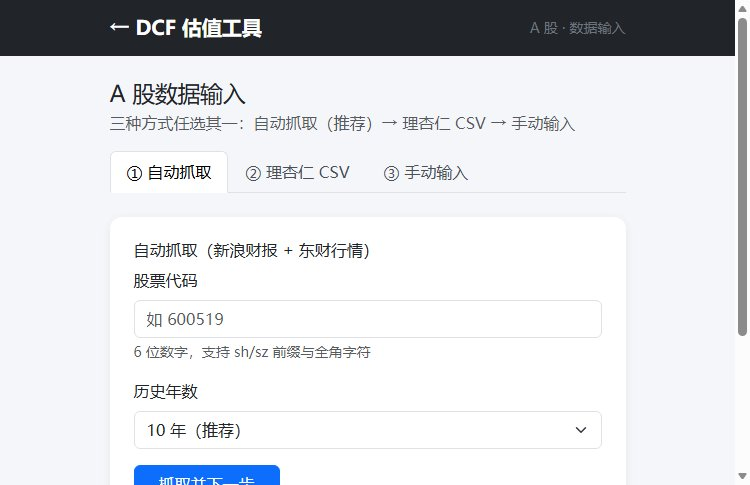
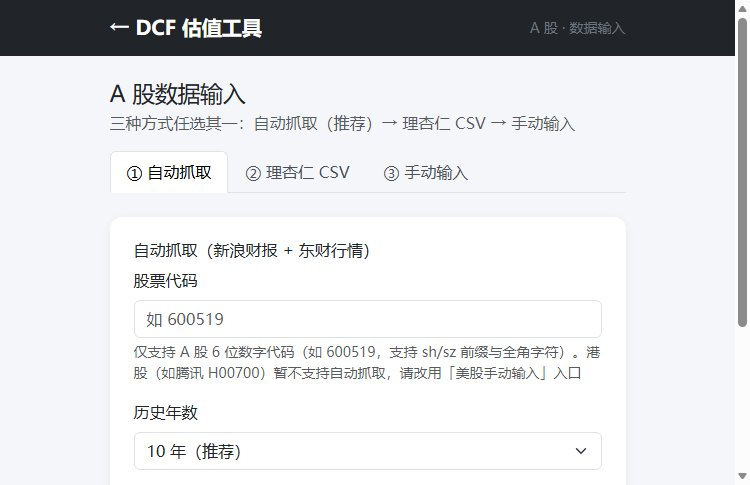
build: bump v1.1.4 -> v1.1.5（港股输入友好提示后的正式发版，更新截图）

Changed region(s): [[0.1533, 0.7113, 0.7973, 1.0], [0.9813, 0.6495, 1.0, 0.7113], [0.7667, 0.866, 0.7973, 0.8969]]

diff --git a/README.md b/README.md
@@ -46,7 +46,7 @@ cd DCF-Valuation-Tool
 
 浏览器打开 <http://localhost:8501> 即可使用（端口可在 `src/main/resources/application.yml` 修改；
 若 8501 被占用，可用 `run.bat jar 8502` / `./run.sh jar 8502` 一键换端口，
-或直接 `java -jar target/dcf-valuation-tool-1.1.4.jar --server.port=8502`）。
+或直接 `java -jar target/dcf-valuation-tool-1.1.5.jar --server.port=8502`）。
 
 **代理（可选）**：FRED 等境外数据源需要代理时才需设置环境变量，**别人使用无需任何代理配置**（不加代理时自动获取失败会提示手动输入，不影响其他功能）：
 
@@ -130,7 +130,7 @@ DCF-Valuation-Tool/
 
 ## 分支与 Roadmap
 
-- `main`：Java 版（当前版本 v1.1.4）
+- `main`：Java 版（当前版本 v1.1.5）
 - `python-prototype`：Python/Streamlit 原型（⚠ WIP：目前只提交了核心计算模块 `dcf/`，UI 层 `app.py` 尚未完成，请勿直接运行该分支；后续完成后再合并为正式版）
 
 ## Docker 部署（免装 JDK）
@@ -149,7 +149,7 @@ docker run -p 8501:8501 -v "$(pwd)/data:/app/data" dcf-valuation-tool
 
 - **免费 PaaS（最省事）**：把本仓库部署到 Railway / Render / Fly.io（仓库已内置 Dockerfile），
   构建后即可获得公网地址，适合演示与试用
-- **云服务器**：在服务器（需 JDK 21）上运行 `java -jar target/dcf-valuation-tool-1.1.4.jar`，
+- **云服务器**：在服务器（需 JDK 21）上运行 `java -jar target/dcf-valuation-tool-1.1.5.jar`，
   再用 Nginx / Caddy 反向代理并绑定域名（HTTPS）
 - **内网穿透**：ngrok / frp 适合临时演示，不建议长期公开使用
 
@@ -158,4 +158,5 @@ docker run -p 8501:8501 -v "$(pwd)/data:/app/data" dcf-valuation-tool
 ## 参与贡献
 
 欢迎提交 Issue 与 PR，详见 [CONTRIBUTING.md](CONTRIBUTING.md)。
+
 

diff --git a/docs/changelog.md b/docs/changelog.md
@@ -376,3 +376,16 @@
   - 新增 `src/test/java/com/dcf/data/DataServiceTest.java`：normalizeCode 全角/前缀归一化、港股 H00700/HK00700 友好报错、其他非法格式用例
 - **测试方式**：`mvnw test -Dtest=DataServiceTest` 通过（新增 3 用例）；全量测试通过；冒烟 POST `/input/a/auto` code=H00700 返回友好错误提示而非 500
 - **可能影响的模块**：A 股输入页（提示文案，不影响正常 A 股流程）；代码校验链路（错误消息更明确）；不涉及估值逻辑
+
+---
+
+## 变更 #23：版本 bump v1.1.4 → v1.1.5（2026-08-25）
+
+- **原因**：v1.1.4 发布后修复了港股代码输入提示（变更 #22），本地 jar 与已发布 v1.1.4 Release 内容不一致；bump 版本号重新发版，保证 jar 与 Release 一一对应。
+- **修改位置**：
+  - `pom.xml`：`<version>` 1.1.4 → 1.1.5
+  - `run.bat` / `run.sh`：`JAR` 变量改为 `dcf-valuation-tool-1.1.5.jar`
+  - `README.md`：jar 名与版本号同步为 1.1.5
+  - 首页版本号无需再改（变更 #19 已动态化，自动跟随 pom）
+- **测试方式**：`mvnw test` 全量通过；`mvnw package` 产出 1.1.5 jar；启动冒烟，首页显示 "Java 版 v1.1.5"，H00700 友好提示与 600519 正常抓取均验证
+- **可能影响的模块**：打包产物文件名、Release 资产；无业务逻辑变化
